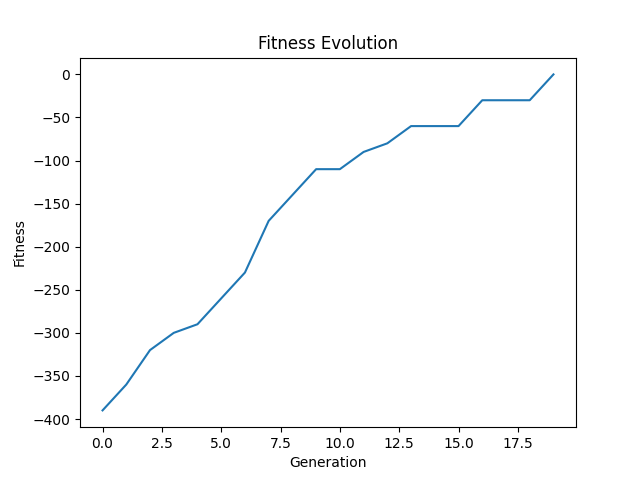
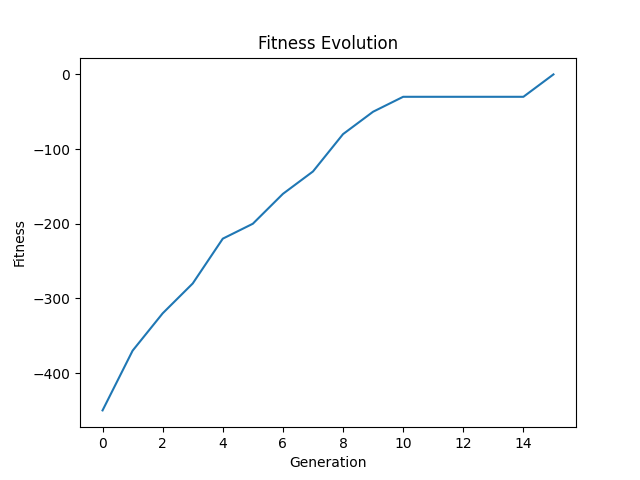
update app.py and README

diff --git a/app.py b/app.py
@@ -1,31 +1,51 @@
-from flask import Flask, render_template, jsonify
-from ga import run_ga
 import time
+from fastapi import FastAPI, Request
+from fastapi.responses import HTMLResponse
+from fastapi.templating import Jinja2Templates
+from ga import run_ga
 
-app = Flask(__name__)
+app = FastAPI()
+
+templates = Jinja2Templates(directory="templates")
 
 
[email redacted]('/')
-def index():
-    return render_template('index.html')
[email redacted]("/", response_class=HTMLResponse)
+async def index(request: Request):
+    """Trình duyệt sẽ gọi endpoint này để tải giao diện"""
+    return templates.TemplateResponse("index.html", {"request": request})
 
 
[email redacted]('/run-ga')
-def trigger_ga():
[email redacted]("/run-ga")
+async def trigger_ga():
+    """
+    Endpoint này ghép nối toàn bộ logic từ main.py cũ:
+    Đo thời gian, chạy GA, và sắp xếp kết quả.
+    """
+    print("Đang chạy Genetic Algorithm... Vui lòng đợi.")
+
     start_time = time.time()
+
     best_schedule, history = run_ga()
+
     end_time = time.time()
 
-    # Sắp xếp lịch trước khi gửi lên frontend
+    execution_time = round(end_time - start_time, 2)
+    generations = len(history)
+
     best_schedule.sort(key=lambda x: (x["day"], x["slot"]))
 
-    return jsonify({
+    print(f"Hoàn thành sau: {execution_time} giây")
+    print(f"Tổng số thế hệ: {generations}")
+
+    return {
         "schedule": best_schedule,
-        "execution_time": round(end_time - start_time, 2),
-        "generations": len(history),
+        "execution_time": execution_time,
+        "generations": generations,
         "history": history
-    })
+    }
 
 
-if __name__ == '__main__':
-    app.run(debug=True, port=5000)
+if __name__ == "__main__":
+    import uvicorn
+
+    uvicorn.run(app, host="127.0.0.1", port=8000)